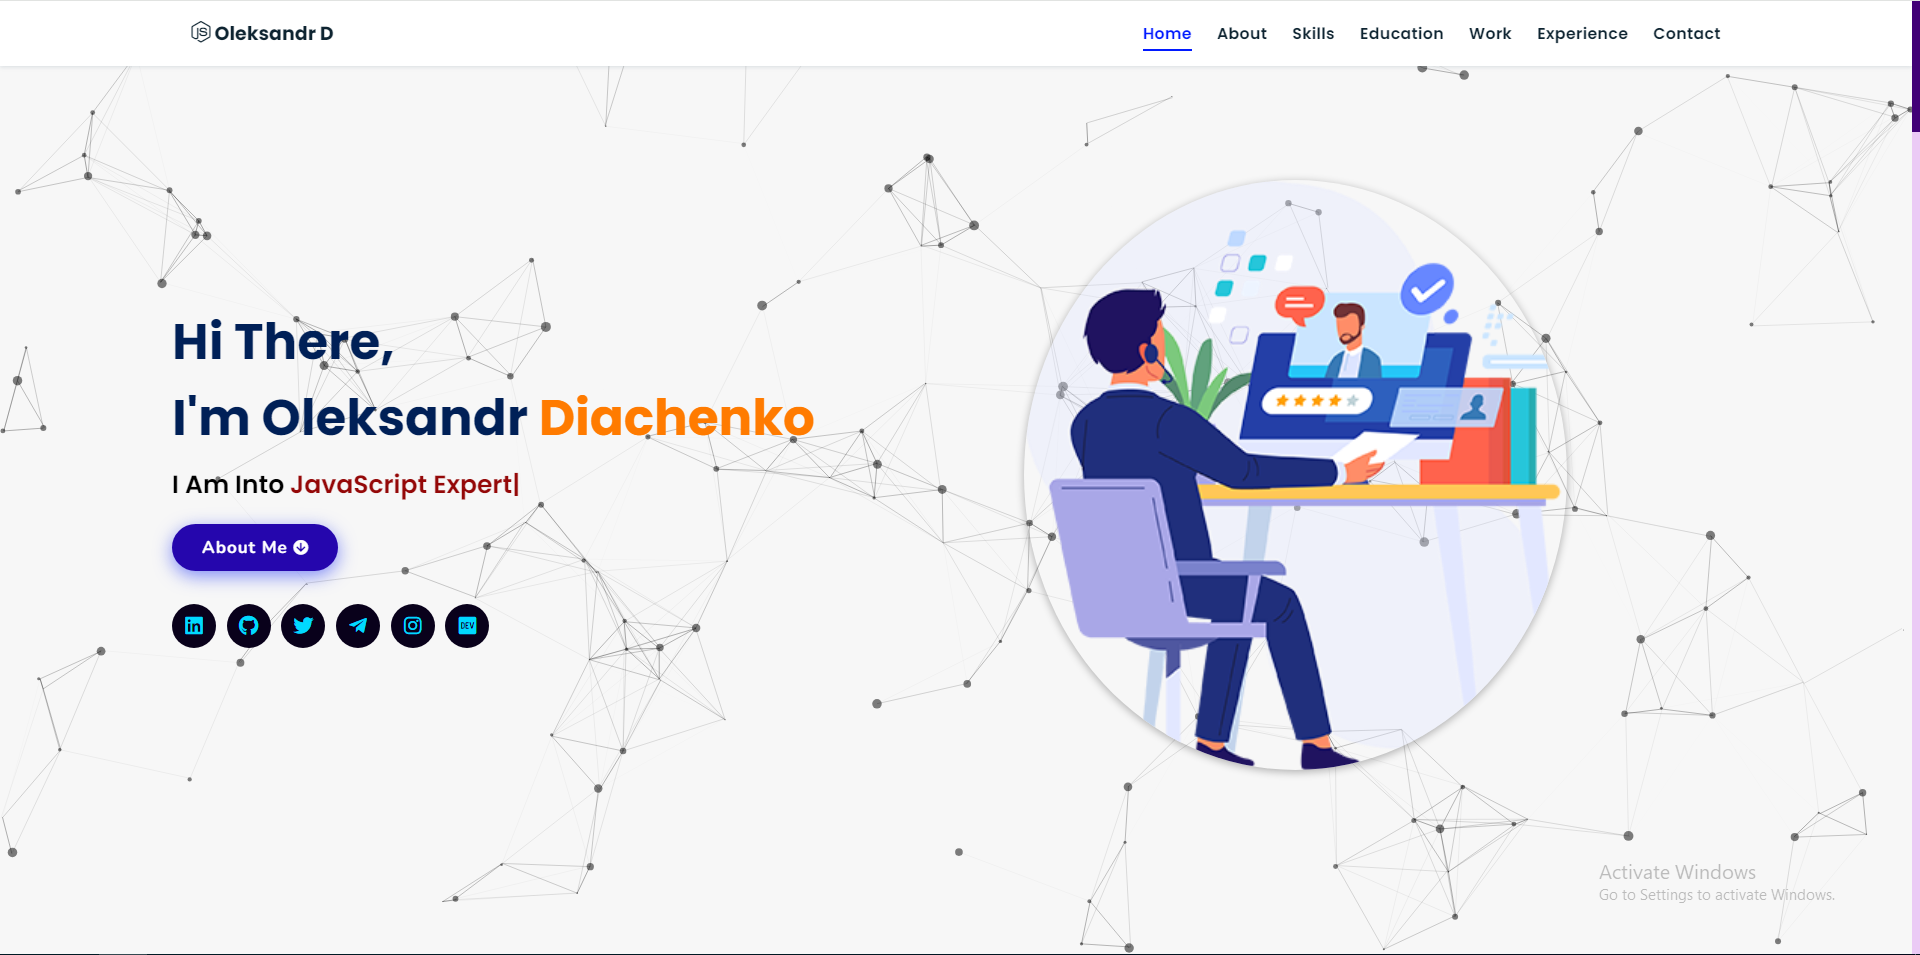
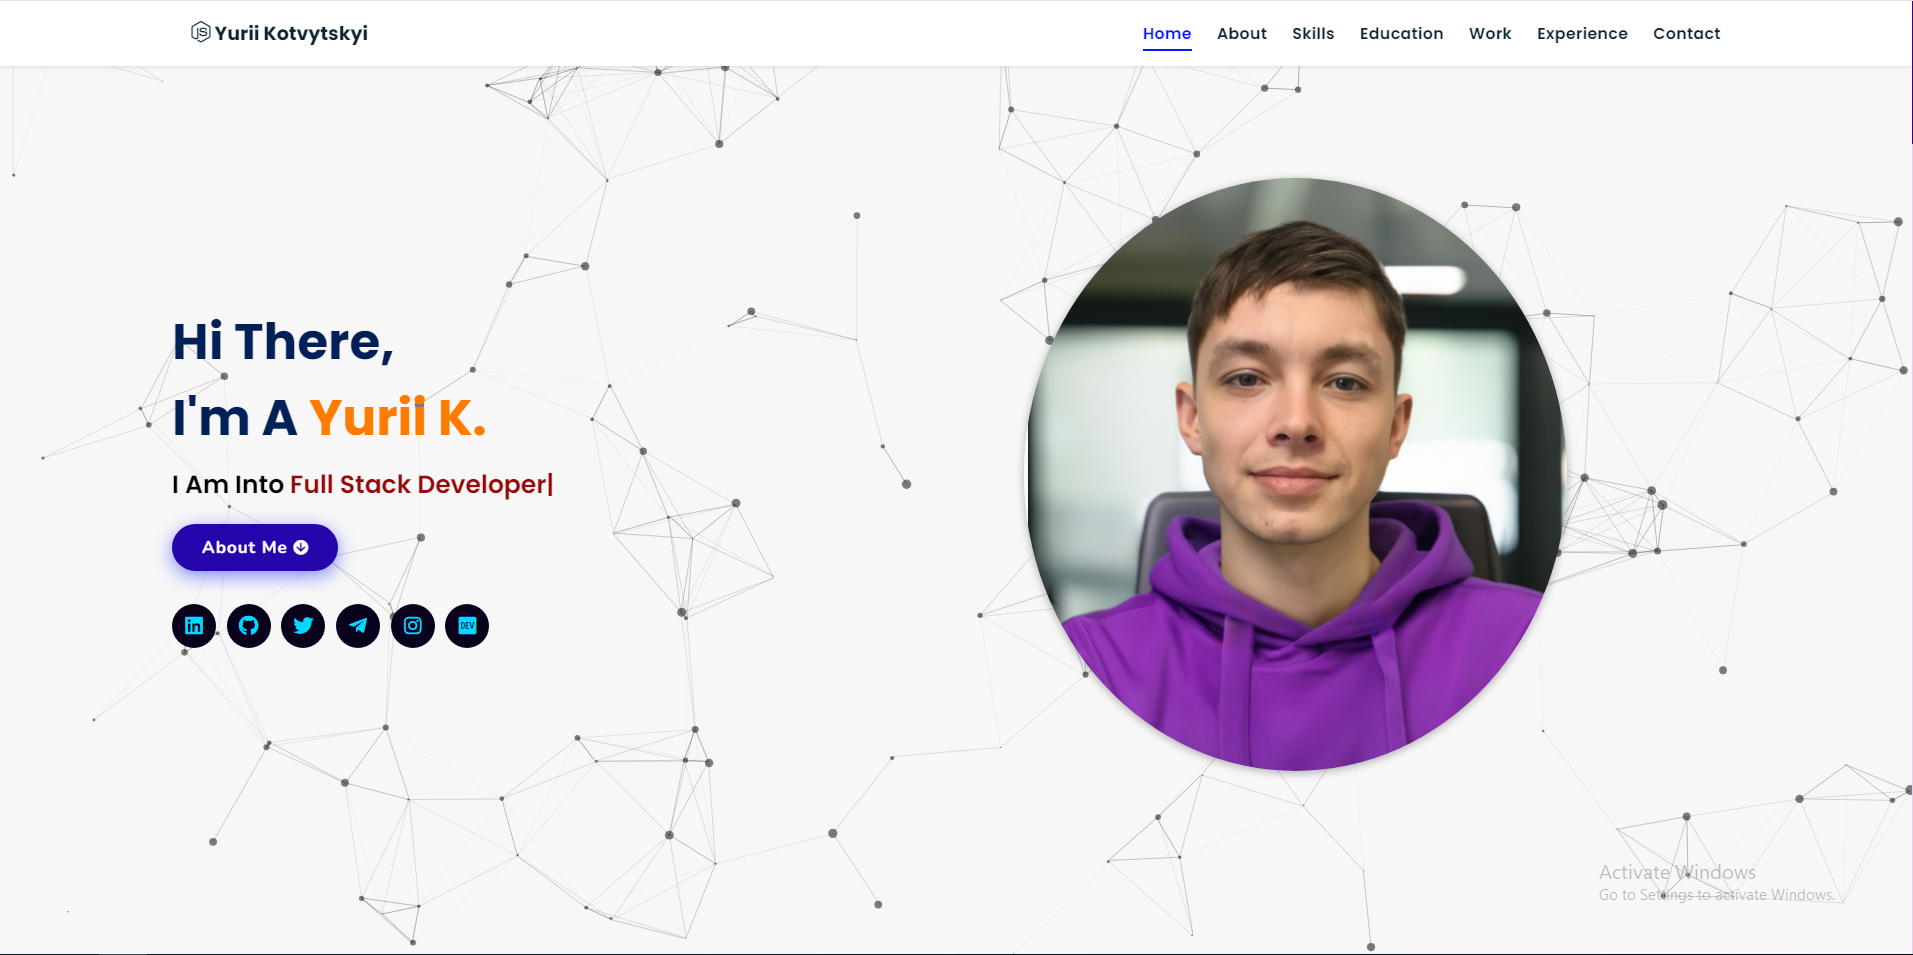
change some content

diff --git a/index.html b/index.html
@@ -16,7 +16,7 @@
     crossorigin="anonymous" referrerpolicy="no-referrer" />
   <!-- Favicon -->
   <link id='favicon' rel="shortcut icon" href="./assets/images/favicon.png" type="image/x-png">
-  <title>Portfolio | Oleksandr Diachenko</title>
+  <title>Portfolio | Yurii Kotvytskyi</title>
 </head>
 
 <body oncontextmenu="return false">
@@ -28,7 +28,7 @@
 
   <!-- navbar starts -->
   <header>
-    <a href="/" class="logo"><i class="fab fa-node-js"></i> Oleksandr D</a>
+    <a href="/" class="logo"><i class="fab fa-node-js"></i> Yurii Kotvytskyi</a>
 
     <div id="menu" class="fas fa-bars"></div>
     <nav class="navbar">
@@ -50,7 +50,7 @@
   <section class="home" id="home">
     <div id="particles-js"></div>
     <div class="content">
-      <h2>Hi There,<br /> I'm Oleksandr <span>Diachenko</span></h2>
+      <h2>Hi There,<br /> I'm a <span>Yurii K.</span></h2>
       <p>I am into <span class="typing-text"></span></p>
       <a href="#about" class="btn"><span>About Me</span>
         <i class="fas fa-arrow-circle-down"></i>
@@ -73,7 +73,7 @@
       </div>
     </div>
     <div class="image">
-      <img draggable="false" class="tilt" src="./assets/images/contact1.png" alt="">
+      <img draggable="false" class="tilt" src="./assets/images/profile.png" alt="">
     </div>
   </section>
   <!-- hero section ends -->
@@ -86,35 +86,31 @@
     <div class="row">
 
       <div class="image">
-        <img draggable="false" class="tilt" src="./assets/images/me.jpg" alt="">
+        <img draggable="false" class="tilt" src="./assets/images/profile.png" alt="">
       </div>
       <div class="content">
-        <h3>I'm Davin</h3>
-        <span class="tag">Full Stack Developer (JavaScript Expert)</span>
+        <h3>I'm Yurii</h3>
+        <span class="tag">Full-Stack and Android Developer</span>
 
         <p>
-          Greetings, As an expert Full-Stack Developer with a focus on React and MERN Stack, I bring to the table a comprehensive understanding of modern web technologies.
-          My expertise lies in developing scalable, high-performing web applications using the latest tools and methodologies.
-
-          Skilled in search engine optimization, keyword research, on-page and off-page optimization, analytics tools usage, content optimization, and link building.
-
-          My commitment is to technological excellence, ensuring that your web applications not only meet but exceed market standards.
-          Looking forward to speaking,
-          Mike Taatgen</p>
+          Full-Stack developer skilled in both front-end and back-end development processes.
+          Highly skilled in programming evelopment and implementation of functional specifications.
+          Also proficient in Java/Kotlin, experienced in Android development, UI/UX design, mobile app architecture, and smooth API integration. 
+        </p>
 
         <div class="box-container">
           <div class="box">
             <p><span> email : </span> cyntiajoanna6@gmail.com</p>
-            <p><span> place : </span> <del>Znamyanka, Ukraine</del></p>
+            <p><span> place : </span> <del> Verbivka, Ukraine</del></p>
           </div>
         </div>
 
-        <!-- <div class="resumebtn">
-          <a href="https://drive.google.com/file/d/1rZiXl562q7aVyk1kJ2nO85YBAq8ixTiw/view" target="_blank"
+        <div class="resumebtn">
+          <a href="https://drive.google.com/file/d/17TPtOHox7xBtEPtsYM8W_Ir9Y2wWthDW/view" target="_blank"
             class="btn"><span>Resume</span>
             <i class="fas fa-chevron-right"></i>
           </a>
-        </div> -->
+        </div>
 
       </div>
     </div>
@@ -166,6 +162,13 @@
 
         <div class="bar">
           <div class="info">
+            <img src="https://img.icons8.com/fluency/48/000000/android-os.png" />
+            <span>Android</span>
+          </div>
+        </div>
+
+        <div class="bar">
+          <div class="info">
             <img src="https://img.icons8.com/fluency/48/000000/node-js.png" />
             <span>NodeJS</span>
           </div>
@@ -173,15 +176,8 @@
 
         <div class="bar">
           <div class="info">
-            <img src="https://img.icons8.com/fluency/48/000000/node-js.png" />
-            <span>C++</span>
-          </div>
-        </div>
-
-        <div class="bar">
-          <div class="info">
-            <img src="https://img.icons8.com/color/48/000000/c-plus-plus-logo.png" />
-            <span>C++</span>
+            <img src="https://img.icons8.com/color/48/000000/java-coffee-cup-logo--v1.png" />
+            <span>Java</span>
           </div>
         </div>
 
@@ -189,13 +185,6 @@
           <div class="info">
             <img src="https://img.icons8.com/color/48/000000/mysql-logo.png" />
             <span>MySQL</span>
-          </div>
-        </div>
-
-        <div class="bar">
-          <div class="info">
-            <img src="https://img.icons8.com/color/48/000000/wordpress.png" />
-            <span>Wordpress</span>
           </div>
         </div>
 
@@ -219,13 +208,6 @@
             <span>MongoDB</span>
           </div>
         </div>
-        
-        <div class="bar">
-          <div class="info">
-            <img src="https://img.icons8.com/color/48/000000/java-coffee-cup-logo--v1.png" />
-            <span>Java</span>
-          </div>
-        </div>
 
         <div class="bar">
           <div class="info">
@@ -246,7 +228,6 @@
   </section>
   <!-- skills section ends -->
 
-
   <!-- education section starts -->
   <section class="education" id="education">
 
@@ -258,12 +239,12 @@
 
       <div class="box">
         <div class="image">
[1 lines of base64/hex data omitted]
+          <img draggable="false" src="https://upload.wikimedia.org/wikipedia/commons/8/8d/Zhytomyr_Stariy_Bul%27var_9_Okruzhniy_Sud_01_%28YDS_6520%29.JPG" alt="">
         </div>
         <div class="content">
-          <h3>Kirovohrad National Technical University </h3>
-          <p>Bachelor of Applied Science (BASc), Technical writing</p>
-          <h4>1995 ~ 1999 | Completed</h4>
+          <h3> Zhytomyr National Agroecological University </h3>
+          <p>Bachelor of Applied Science (BASc), Ecological engineering</p>
+          <h4>2012-2016 | Completed</h4>
         </div>
       </div>
 
@@ -296,12 +277,6 @@
     </div>
 
     </div>
-<!-- 
-    <div class="viewall">
-      <a href="/projects" class="btn"><span>View All</span>
-        <i class="fas fa-arrow-right"></i>
-      </a>
-    </div> -->
 
   </section>
   <!-- work project section ends -->
@@ -312,92 +287,21 @@
     <h2 class="heading"><i class="fas fa-briefcase"></i> Experience </h2>
 
     <div class="timeline">
-
       <div class="container left">
         <div class="content">
           <div class="tag">
-            <h1>Product Manager | Ambroise Solutions Inc</h1>
+            <h1>Android developer | Intellias</h1>
           </div>
           <div class="desc">
             <h2 style="color:lightcyan;">
-              <em>January 2023 - December 2023</em>
+              <em>2022 - 2024</em>
             </h2>
             <h3>
-              <li>Led the development and launch of a workforce management system for restaurants, collaborating with the marketing and development teams to gather customer feedback and create a product roadmap.</li>
-              <li>Conducted market assessments and presented findings to executives, utilizing research and analysis to drive product strategy and decision-making.</li>
-              <li>Actively engaged with customers to understand their needs, behaviors and pain points, and used this information to inform product development.</li>
-            </h3>
-          </div>
-        </div>
-      </div>
-
-      <div class="container right">
-        <div class="content">
-          <div class="tag">
-            <h1>Chrome Extension developer | Toki</h1>
-          </div>
-          <div class="desc">
-            <h2 style="color:lightcyan;">
-              <em>May 2022 ~ September 2022</em>
-            </h2>
-            <h3>
-              <li> Built Toki wallet chrom extension with clear and high code base.</li>
-              <li> Github management and integrated web3 api integration.</li>
-            </h3>
-          </div>
-        </div>
-      </div>
-      <div class="container left">
-        <div class="content">
-          <div class="tag">
-            <h1>Full Stack developer | TheCake</h1>
-          </div>
-          <div class="desc">
-            <h2 style="color:lightcyan;"><em> December 2020 ~ March 2022</em></h2>
-            <h3>
-              <li>Created a sandbox system to demo various work in progressto project managers and testers using Node.js and LXD.</li>
-              <li>Created a marketing tool with React, Apollo GraphQL, andExpress.js, which replaced a legacy system.</li>
-              <li>Migrated legacy landing pages from PHP to Next.js andReact.</li>
-              <li>Migrated infrastructure from AWS to GCP withoutdowntime.</li>
-            </h3>
-
-          </div>
-        </div>
-      </div>
-      
-      <div class="container right">
-        <div class="content">
-          <div class="tag">
-            <h1> Software developer | Mercury Development, Inc </h1>
-          </div>
-          <div class="desc">
-            <h2 style="color:lightcyan;"><em> November 2018 ~ July 2020</em></h2>
-            <h3>
-              <li>Supported both the back-end and front-end parts for
-                anevent and meeting application</li>              
-              <li>Defined main technologies for the project.</li>              
-                <h4>
-                  <em>For example,
-                  Iadded TypeScript for the client-side Developed internal utilities and tools for quick and easywork with the user database.
-                  Part of them was included inthe administration part of the application</em>
-                </h4>
-            </h3>
-          </div>
-        </div>
-      </div>
-      
-      <div class="container left">
-        <div class="content">
-          <div class="tag">
-            <h1>Full stack developer | Hibob</h1>
-          </div>
-          <div class="desc">
-            <h2 style="color:lightcyan;">
-              <em> February 2017 ~ September 2018 </em>
-            </h2>
-            <h3>
-              <li> Built concrete Ruby on Rails APIs that carried out tasks via Node.js microservices.</li>
-              <li> Developed and implemented a strategy for migrating thefront-end codebase to React additively.</li>
+              <li> Created Android applications natively, employing both Java and Kotlin. </li>
+              <li> Worked in conjunction with designers to craft interfaces that are user-friendly and visually attractive. </li>
+              <li> Integrated seamlessly with backend services and APIs to retrieve and showcase data. </li>
+              <li> Utilized the Android SDK and various libraries to implement diverse functionalities. </li>
+              <li> Conducted performance optimization and testing across a range of Android devices. </li>
             </h3>
           </div>
         </div>
@@ -410,7 +314,7 @@
           </div>
           <div class="desc">
             <h2 style="color:lightcyan;">
-              <em> May 2014 ~ August 2016</em>
+              <em> 2017 ~ 2019</em>
             </h2>
             <h3>
               <li> Conducted keyword research and on-page optimization to improve website search engine rankings.</li>
@@ -475,7 +379,7 @@
     <div class="box-container">
 
       <div class="box">
-        <h3>Oleksandr's Portfolio</h3>
+        <h3>Yurii's Portfolio</h3>
         <p>Thank you for visiting my personal portfolio website. Connect with me over socials. <br /> <br /> Keep Rising
           🚀. Connect with me over live chat!</p>
       </div>
@@ -494,7 +398,7 @@
         <h3>contact info</h3>
         <p> <i class="fas fa-phone"></i>+380 668987483</p>
         <p> <i class="fas fa-envelope"></i>cyntiajoanna6@gmail.com</p>
-        <p> <i class="fas fa-map-marked-alt"></i>Znamyanka, Ukraine</p>
+        <p> <i class="fas fa-map-marked-alt"></i>Verbivka, Ukraine</p>
         <div class="share">
 
           <a href="https://www.linkedin.com/in/jigar-sable" class="fab fa-linkedin" aria-label="LinkedIn"
@@ -508,7 +412,7 @@
     </div>
 
     <h1 class="credit">Designed with <i class="fa fa-heart pulse"></i> by <a
-        href="https://www.linkedin.com/in/jigar-sable"> Oleksandr Diachenko</a></h1>
+        href="https://www.linkedin.com/in/jigar-sable"> Yurii Kotvytskyi</a></h1>
 
   </section>
   <!-- footer section ends -->

diff --git a/assets/js/script.js b/assets/js/script.js
@@ -71,7 +71,7 @@ document.addEventListener('visibilitychange',
 
 // <!-- typed js effect starts -->
 var typed = new Typed(".typing-text", {
-    strings: ["Full Stack Developer", "JavaScript Expert"],
+    strings: ["Full Stack Developer", "Android Developer"],
     loop: true,
     typeSpeed: 50,
     backSpeed: 25,

diff --git a/README.md b/README.md
@@ -1,7 +1,7 @@
 ## Portfolio-Website
 Portfolio website build using HTML5, CSS3, JavaScript and jQuery.
 
-<a href="https://jigarsable.netlify.app/" target="_blank">**Visit Now** 🚀</a>
+<a href="https://jigarsable.netlify.app/" target="_blank">🚀 **Visit Now** 🚀</a>
 
 
 ## 📌 Tech Stack
@@ -25,7 +25,7 @@ If you want to contact me, you can reach me through below handles.
 
 &nbsp;&nbsp;<a href="https://www.linkedin.com/in/jigar-sable/"><img src="https://www.felberpr.com/wp-content/uploads/linkedin-logo.png" width="30"></img></a>
 
-© 2024 Oleksandr Diachenko
+© 2024 Yurii Kotvytskyi
 
 
 [![forthebadge](https://forthebadge.com/images/badges/built-with-love.svg)](https://forthebadge.com)
